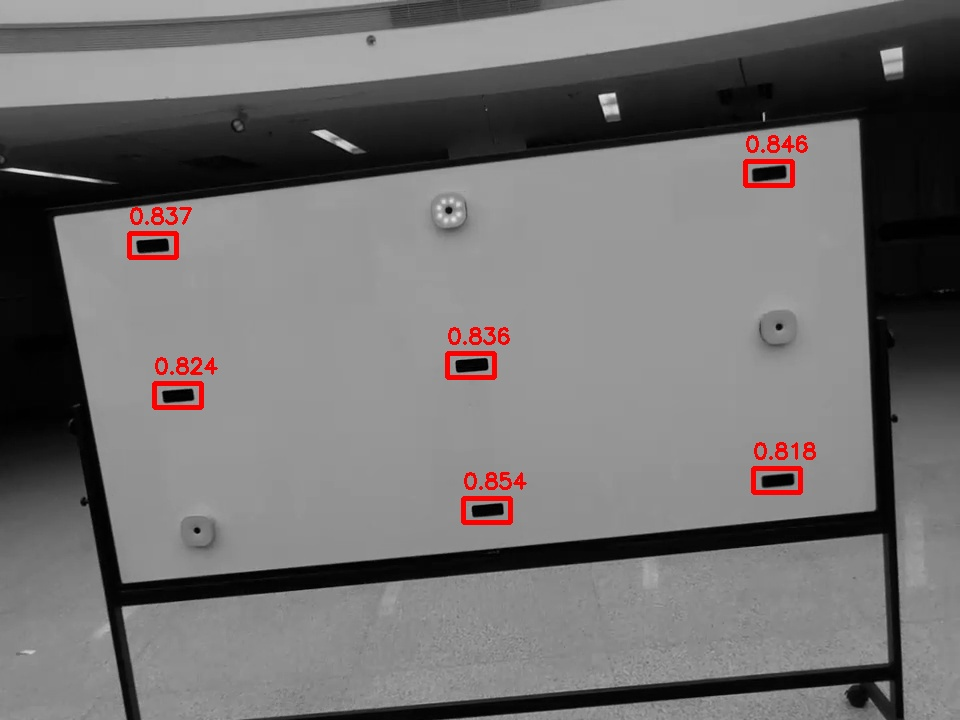
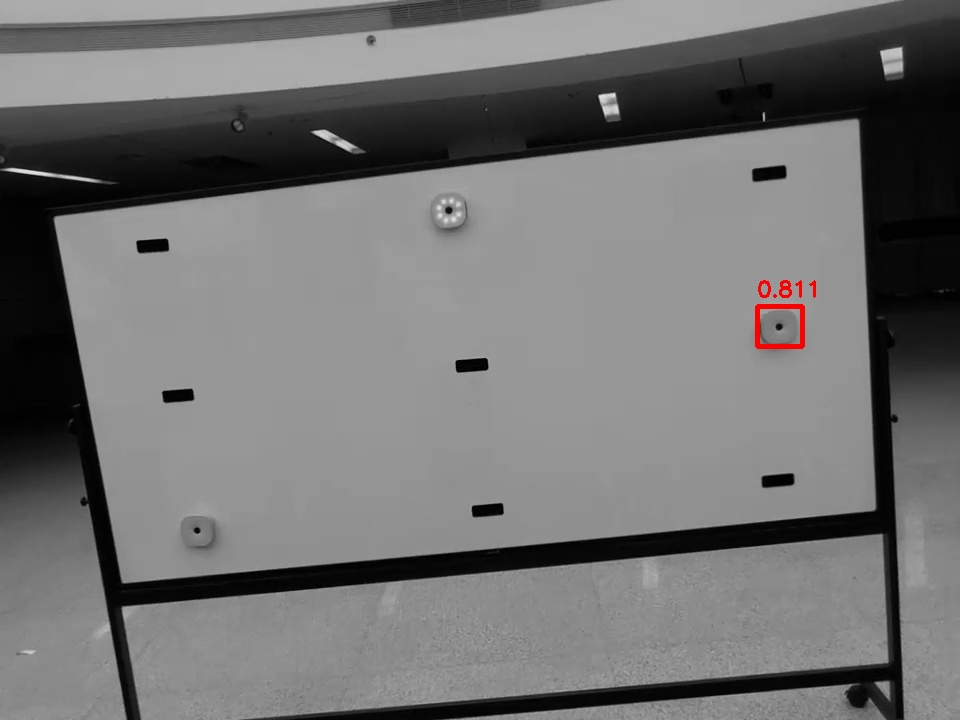
继续测试

diff --git a/scripts/test_find_template.py b/scripts/test_find_template.py
@@ -10,7 +10,36 @@ import os
 import cv2
 import numpy as np
 
-TEMPLATE_PATH = "template/EMPTY.png"  # 替换为实际模板路径
+TEMPLATES = {
+    "EMPTY":     ("template/EMPTY.png",     (255, 0, 0)),      # 蓝
+    "LIGHT_ON":  ("template/LIGHT_ON.png",  (0, 255, 0)),      # 绿
+    "LIGHT_OFF": ("template/LIGHT_OFF.png", (0, 0, 255)),      # 红
+}
+
+# 若一个类型有多张样张，覆盖掉上面同名 key 即可（用列表替代单路径）
+# 示例：LIGHT_ON 有 3 种样张，EMPTY 有 2 种
+# TEMPLATES = {
+#     "EMPTY":     (["template/EMPTY_1.png", "template/EMPTY_2.png"], (255, 0, 0)),
+#     "LIGHT_ON":  (["template/LIGHT_ON_a.png", "template/LIGHT_ON_b.png", "template/LIGHT_ON_c.png"], (0, 255, 0)),
+#     "LIGHT_OFF": ("template/LIGHT_OFF.png", (0, 0, 255)),
+# }
+
+THRESHOLD = 0.8
+
+
+def match_template(gray_img, gray_tmpl):
+    """匹配单个模板，返回 (x, y, confidence) 列表"""
+    th, tw = gray_tmpl.shape
+    result = cv2.matchTemplate(gray_img, gray_tmpl, cv2.TM_CCOEFF_NORMED)
+    ys, xs = np.where(result >= THRESHOLD)
+
+    # NMS
+    min_dist = min(tw, th) // 2
+    keep = []
+    for x, y in zip(xs, ys):
+        if all(np.hypot(x - k[0], y - k[1]) > min_dist for k in keep):
+            keep.append((x, y, result[y, x]))
+    return keep
 
 
 def main():
@@ -19,45 +48,37 @@ def main():
         sys.exit(1)
 
     img_path = sys.argv[1]
-    tmpl_path = TEMPLATE_PATH
-
     bgr = cv2.imread(img_path)
-    template = cv2.imread(tmpl_path)
     if bgr is None:
         print(f"无法读取图片: {img_path}")
         sys.exit(1)
-    if template is None:
-        print(f"无法读取模板: {tmpl_path}")
-        sys.exit(1)
-
-    th, tw = template.shape[:2]
-    if th > bgr.shape[0] or tw > bgr.shape[1]:
-        print("模板尺寸大于原图，无法匹配")
-        sys.exit(1)
 
     gray = cv2.cvtColor(bgr, cv2.COLOR_BGR2GRAY)
-    gray_tmpl = cv2.cvtColor(template, cv2.COLOR_BGR2GRAY)
+    total = 0
 
-    result = cv2.matchTemplate(gray, gray_tmpl, cv2.TM_CCOEFF_NORMED)
-    threshold = 0.8
-    locations = np.where(result >= threshold)
-    locations = list(zip(*locations[::-1]))  # (x, y) 列表
+    for name, (paths, color) in TEMPLATES.items():
+        if isinstance(paths, str):
+            paths = [paths]
 
-    # 非极大值抑制，避免重叠框
-    min_dist = min(tw, th) // 2
-    keep = []
-    for loc in locations:
-        if all(np.hypot(loc[0] - k[0], loc[1] - k[1]) > min_dist for k in keep):
-            keep.append(loc)
+        for tmpl_path in paths:
+            template = cv2.imread(tmpl_path)
+            if template is None:
+                print(f"无法读取模板: {tmpl_path}，跳过")
+                continue
 
-    print(f"检测到 {len(keep)} 个模板匹配")
+            gray_tmpl = cv2.cvtColor(template, cv2.COLOR_BGR2GRAY)
+            matches = match_template(gray, gray_tmpl)
 
-    for i, (x, y) in enumerate(keep):
-        conf = result[y, x]
-        print(f"  [{i+1}] 位置: ({x}, {y})  置信度: {conf:.4f}")
-        cv2.rectangle(bgr, (x, y), (x + tw, y + th), (0, 0, 255), 3)
-        cv2.putText(bgr, f"{conf:.3f}", (x, y - 10),
-                    cv2.FONT_HERSHEY_SIMPLEX, 0.7, (0, 0, 255), 2)
+            print(f"[{name}] 模板 {tmpl_path}: {len(matches)} 个匹配")
+            for i, (x, y, conf) in enumerate(matches):
+                print(f"    [{i + 1}] 位置: ({x}, {y})  置信度: {conf:.4f}")
+                th, tw = gray_tmpl.shape
+                cv2.rectangle(bgr, (x, y), (x + tw, y + th), color, 3)
+                cv2.putText(bgr, f"{name} {conf:.2f}", (x, y - 10),
+                            cv2.FONT_HERSHEY_SIMPLEX, 0.6, color, 2)
+            total += len(matches)
+
+    print(f"\n共检测到 {total} 个目标")
 
     base = os.path.splitext(os.path.basename(img_path))[0]
     out_path = os.path.join(os.path.dirname(img_path), f"{base}_template_match.jpg")